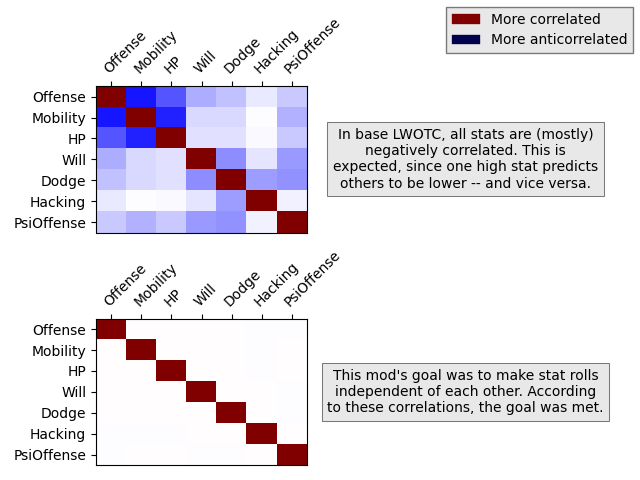
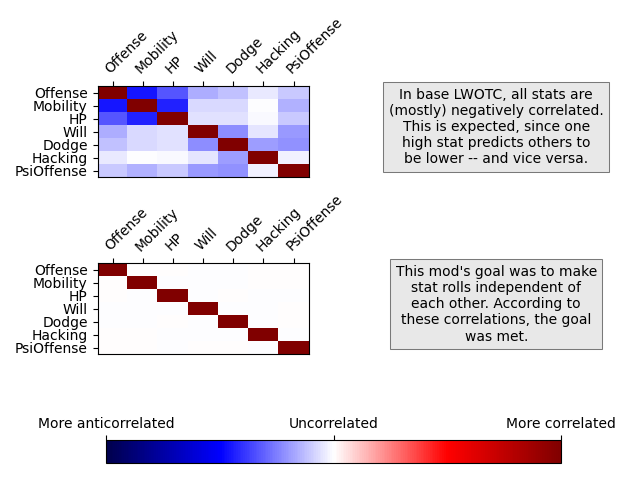
Change legend into colorbar in correlation figure

diff --git a/steam_workshop_images.py b/steam_workshop_images.py
@@ -51,7 +51,11 @@ if __name__ == "__main__":
         stat_figs[stat], stat_axes[stat] = fig, ax
 
     totals_fig, totals_ax = plt.subplots()
-    corr_fig, corr_axes = plt.subplots(2)
+    corr_fig, corr_axes = plt.subplot_mosaic(
+        [["top", "top_text"], ["bottom", "bottom_text"], ["colorbar", "colorbar"]],
+        width_ratios=[50, 50],
+        height_ratios=[40, 40, 10],
+    )
     mob_aim_fig, mob_aim_axes = plt.subplot_mosaic(
         [["top", "colorbar"], ["bottom", "colorbar"]], width_ratios=[95, 5]
     )
@@ -99,7 +103,7 @@ if __name__ == "__main__":
         # Covariance matrices
         cov = np.cov(sample.T)
         cov /= np.sqrt(np.asmatrix(cov).diagonal().T * np.asmatrix(cov).diagonal())
-        corr_axes[sample_index].pcolor(
+        corr_axes[("top", "bottom")[sample_index]].pcolor(
             cov,
             cmap=CORR_COLORMAP,
             vmin=-max(abs(cov.min(None)), abs(cov.max(None))),
@@ -142,7 +146,8 @@ if __name__ == "__main__":
     )
     totals_fig.savefig(f"{IMG_FILE_PREFIX}Totals.png")
 
-    for ax_index, ax in enumerate(corr_axes):
+    for ax_key in ("top", "bottom"):
+        ax = corr_axes[ax_key]
         ax.tick_params(top=True, labeltop=True, bottom=False, labelbottom=False)
         ax.set_xticks(
             [0.5 + i for i in range(len(Soldier.STATS))],
@@ -159,29 +164,38 @@ if __name__ == "__main__":
             ha="left",
             rotation_mode="anchor",
         )
-    corr_axes[0].text(
-        7 * len(Soldier.STATS) / 4,
-        len(Soldier.STATS) / 2,
+    for ax_key in ("top_text", "bottom_text"):
+        ax = corr_axes[ax_key]
+        ax.set_axis_off()
+        ax.set_xlim(0, 1)
+        ax.set_ylim(0, 1)
+
+    corr_axes["top_text"].text(
+        0.65,
+        0.55,
         dedent(
             """
-            In base LWOTC, all stats are (mostly)
-            negatively correlated. This is
-            expected, since one high stat predicts
-            others to be lower -- and vice versa.
+            In base LWOTC, all stats are
+            (mostly) negatively correlated.
+            This is expected, since one
+            high stat predicts others to
+            be lower -- and vice versa.
             """
         ).strip(),
         verticalalignment="center",
         horizontalalignment="center",
         bbox=EXPLAINER,
     )
-    corr_axes[1].text(
-        7 * len(Soldier.STATS) / 4,
-        len(Soldier.STATS) / 2,
+    corr_axes["bottom_text"].text(
+        0.65,
+        0.55,
         dedent(
             """
-            This mod's goal was to make stat rolls
-            independent of each other. According
-            to these correlations, the goal was met.
+            This mod's goal was to make
+            stat rolls independent of
+            each other. According to
+            these correlations, the goal
+            was met.
             """
         ).strip(),
         verticalalignment="center",
@@ -189,17 +203,19 @@ if __name__ == "__main__":
         bbox=EXPLAINER,
     )
 
+    corr_axes["colorbar"].set_axis_off()
+    colorbar = corr_fig.colorbar(
+        cm.ScalarMappable(cmap=CORR_COLORMAP),
+        ax=corr_axes["colorbar"],
+        orientation="horizontal",
+        location="top",
+        fraction=1,
+    )
+    colorbar.set_ticks(
+        [0, 0.5, 1],
+        labels=["More anticorrelated", "Uncorrelated", "More correlated"],
+    )
     corr_fig.tight_layout()
-    corr_fig.subplots_adjust(0.15, right=0.48)
-    legend = corr_fig.legend(
-        labels=["More correlated", "More anticorrelated"],
-    )
-    for patch, color in zip(
-        legend.get_patches(),
-        [CORR_COLORMAP.get_over(), CORR_COLORMAP.get_under()],
-    ):
-        patch.set_color(color)
-
     corr_fig.savefig(f"{IMG_FILE_PREFIX}corr.png")
 
     mob_aim_max = max(sample.max(None) for sample in mob_aim_samples)
